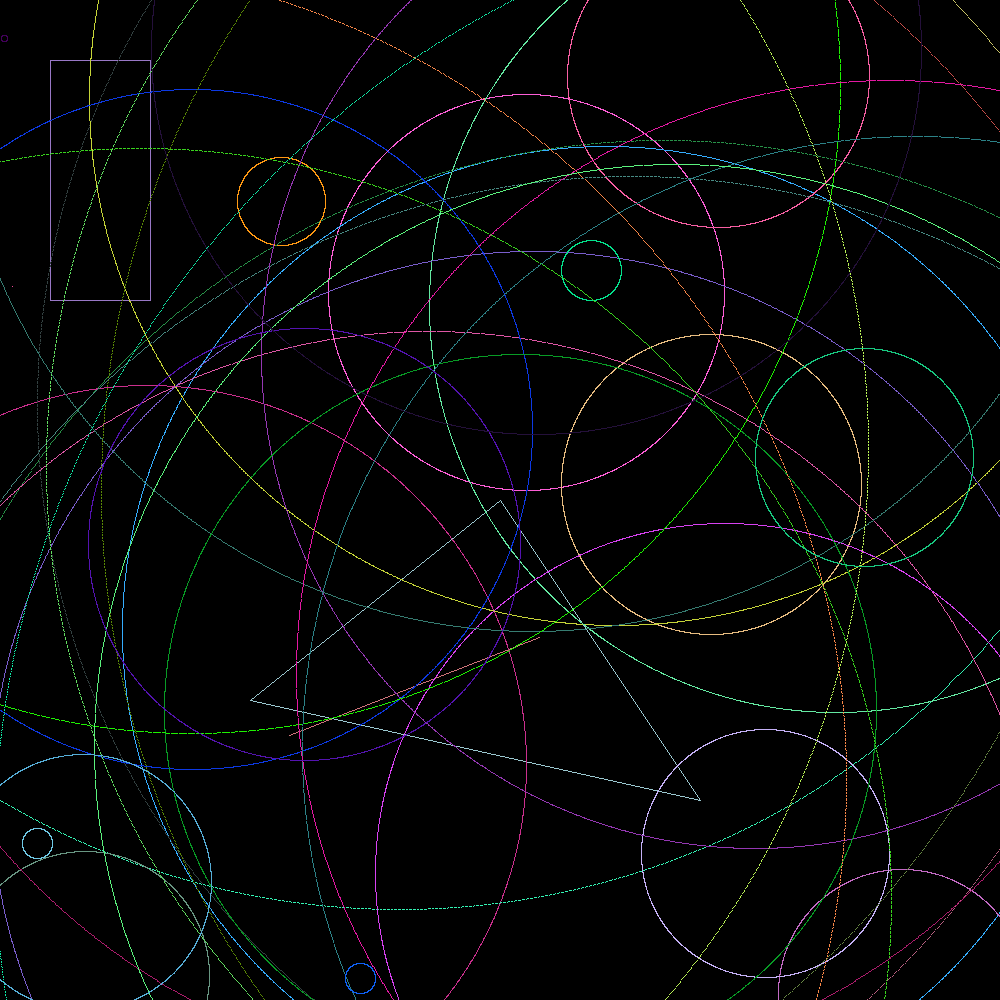
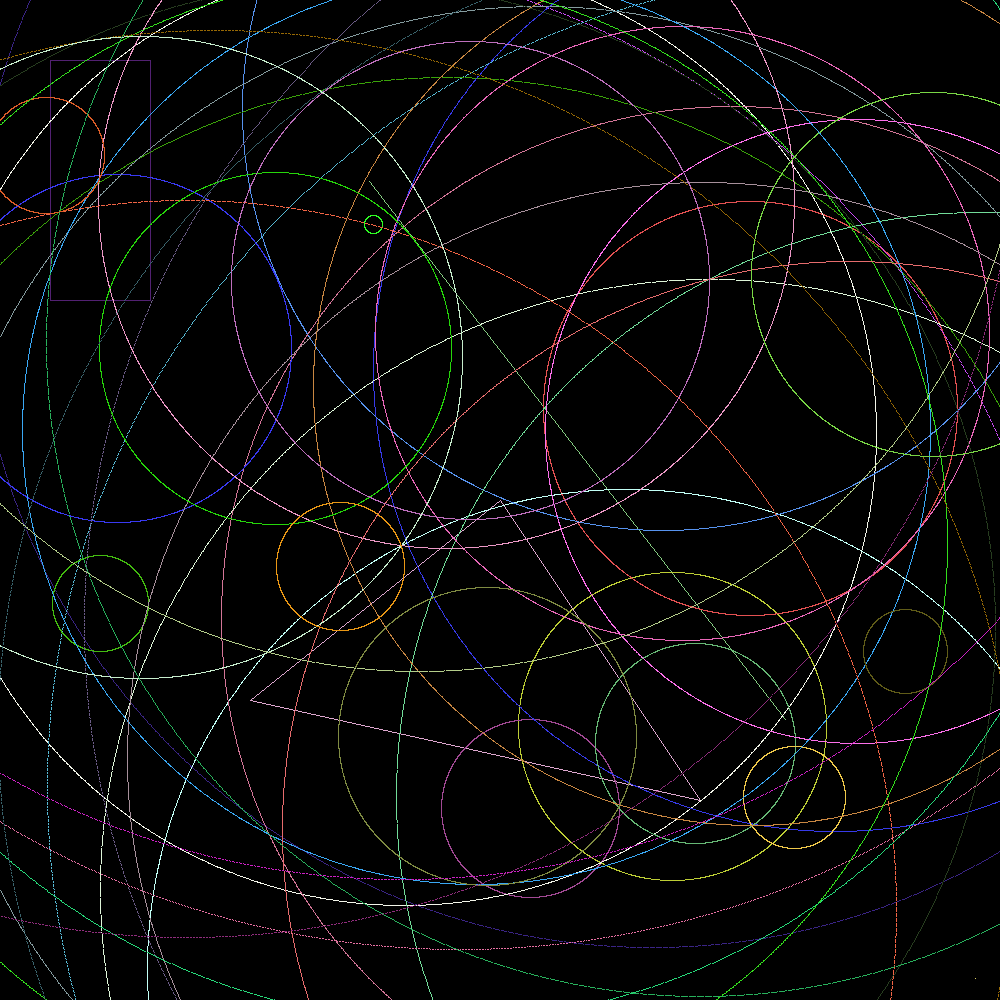
cleaning the main page

diff --git a/src/main.rs b/src/main.rs
@@ -1,57 +1,4 @@
-// ## drawing
 
-// ### Instructions
-
-// The purpose of this exercise is to create an image like the example below:
-
-// ![example](image.png)
-
-// You will need to do the following:
-
-// - Copy the code in the [usage](#usage) to your `main.rs`.
-
-// - Create a module called `geometrical_shapes` in another file.
-
-// You'll define the logic for creating and working with shapes in `geometrical_shapes`. Create the following traits:
-
-// - `Drawable` which contains the methods `draw` and `color`.
-
-// - `Displayable` which contains the method `display`.
-
-// Define them according to the way they are called in the `main.rs` function.
-
-// In order to compile and run `main.rs`, you'll need to define some structures. You are free to implement all the shapes with whatever internal structure you see fit, but you must provide an associated function `new` for all the shapes, which will be described below:
-
-// - `Point`: a new point should be created from two `i32` values.
-// - `Line`: a new line should be created from references to two different points.
-// - `Triangle`: a new triangle should be created from references to three different points.
-// - `Rectangle`: a new rectangle should be created from references to two different points.
-// - `Circle`: a new circle should be created from a reference to a point representing the center, and an `i32` value representing the circle's radius.
-
-// You'll also need to create the associated function `random` for `Line`, `Point` and `Circle`. You should derive their signatures from the usage.
-
-// Each shape must be drawn in a different color.
-
-// > Don't forget to add the dependencies in your Cargo.toml.
-
-// ### Unit Tests
-
-// You must implement unit tests within your `geometrical_shapes` module to ensure your logic is sound. Specifically, your tests should:
-
-// - Verify that `random` functions never produce points outside the specified image dimensions.
-// - Verify that shapes (like `Rectangle`) are correctly initialized even if the points are provided in reverse order.
-// - Test edge cases, such as a line where both points are at the same coordinate.
-
-// ### Bonus
-
-// You may optionally implement the following shapes, including the structures and traits needed to draw them:
-
-// - `Pentagon`
-// - `Cube`
-
-// ### Usage
-
-// rust
 mod geometrical_shapes;
 
 use geometrical_shapes as gs;
@@ -89,10 +36,3 @@ impl Displayable for Image {
         }
     }
 }
-// > The expected output is a png file: `image.png`
-
-// ### Notions
-
-// - [Image processing library](https://docs.rs/raster/0.2.0/raster/)
-
-// - [Traits](https://doc.rust-lang.org/stable/book/ch10-02-traits.html)
